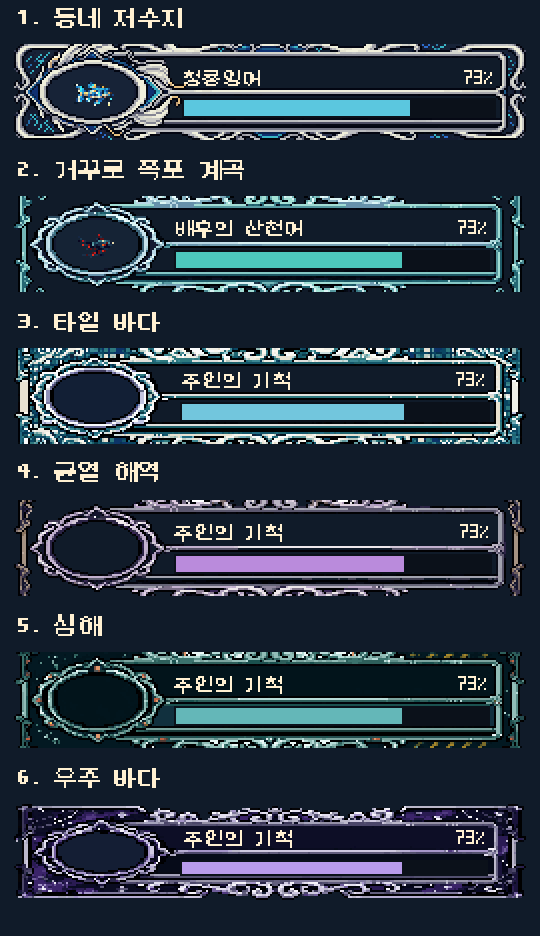
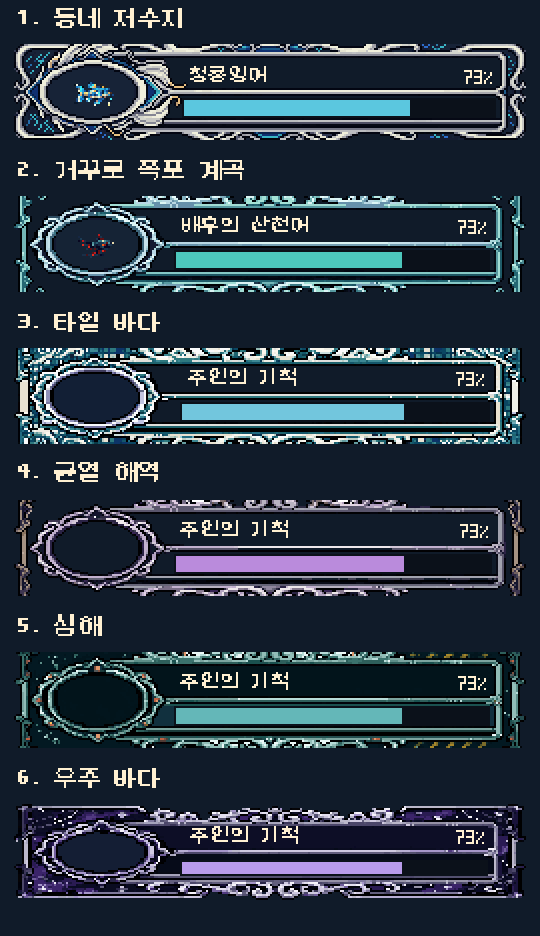
docs: finalize owner gauge proposal name alignment

diff --git a/HANDOFF.md b/HANDOFF.md
@@ -1,4 +1,7 @@
-## 최신 우선 — 48px 공통스타일 재시안 완료
+## 최신 우선 — 48px 시안 이름위치 마무리
+사용자 요청에 따라 공통표시폭256px 기준 이름만 오른쪽3px/위2px 이동했다. 프레임/퍼센트/진행바/물고기그림/폰트크기는 유지. 6종합성 검수완료. **게임미적용·배포없음·추가유료생성0.** [정렬기록](docs/proposals/owner-gauge-v2/NAME_ALIGNMENT.json).
+
+## 48px 공통스타일 재시안 결과
 우주바다의 곡선/타원·장식 프레임을 실제 스타일·형태 참조로 사용해 지역별1장·6종을 새로 제작했다. 256×48px로 기존보다 높이25% 축소. 총6요청/6결과/60회분·재생성0. **이번은 시안만이며 게임은 기존64px 상태, 배포 없음.**
 
 [모음](docs/previews/owner-v2-proposals.png), [높이비교](docs/previews/owner-v2-height-comparison.png), [보고서](docs/proposals/owner-gauge-v2/REPORT.md), [시안검증](docs/proposals/owner-gauge-v2/VERIFICATION.json). 원본/요청/영수증/지역검수는 docs/proposals/owner-gauge-v2/0~5/. 모음은 좌우투명여백을 표시폭에 맞춘 합성시안이며 실제게임화면이 아니다. 사용자 검토 후 다음 지시를 따른다. 임의추가 유료생성/게임교체/배포 금지.

diff --git a/docs/proposals/owner-gauge-v2/REPORT.md b/docs/proposals/owner-gauge-v2/REPORT.md
@@ -12,3 +12,6 @@
 [6종 모음](../../previews/owner-v2-proposals.png) · [높이 비교](../../previews/owner-v2-height-comparison.png)
 
 기존게임은64px 프레임과 기존검증 상태를 유지한다. 이번 변경은 docs 및 상태/인수인계뿐이며 게임검사·빌드·배포를 새로 실행하지 않았다.
+
+## 이름위치 마무리
+사용자 요청으로 이름만 공통표시256px 기준 오른쪽3px/위2px 이동. 폰트크기/퍼센트/프레임/진행바/그림 유지. 6종모음 시각검수 통과. 추가생성0, 게임미적용/미배포. 세부 NAME_ALIGNMENT.json.

diff --git a/CHANGELOG.md b/CHANGELOG.md
@@ -1,5 +1,9 @@
 # 변경 기록
 
+## 미배포 — 주인게이지 시안 이름위치 마무리
+- 이름만 오른쪽3px/위2px 조정,6종모음 갱신 및 시각검수. 프레임/폰트크기/퍼센트 유지.
+- 추가생성0. 게임미적용/배포없음.
+
 ## 미배포 — 우주바다 기준 48px 재시안 (게임미적용)
 - 공통 곡선/타원장식 스타일로6지역 각1장,256×48px로 높이25% 축소.
 - 6요청/6결과/60회분·재생성0. [모음](docs/previews/owner-v2-proposals.png)·[보고서](docs/proposals/owner-gauge-v2/REPORT.md). 원본/영수증/검수 보존.
